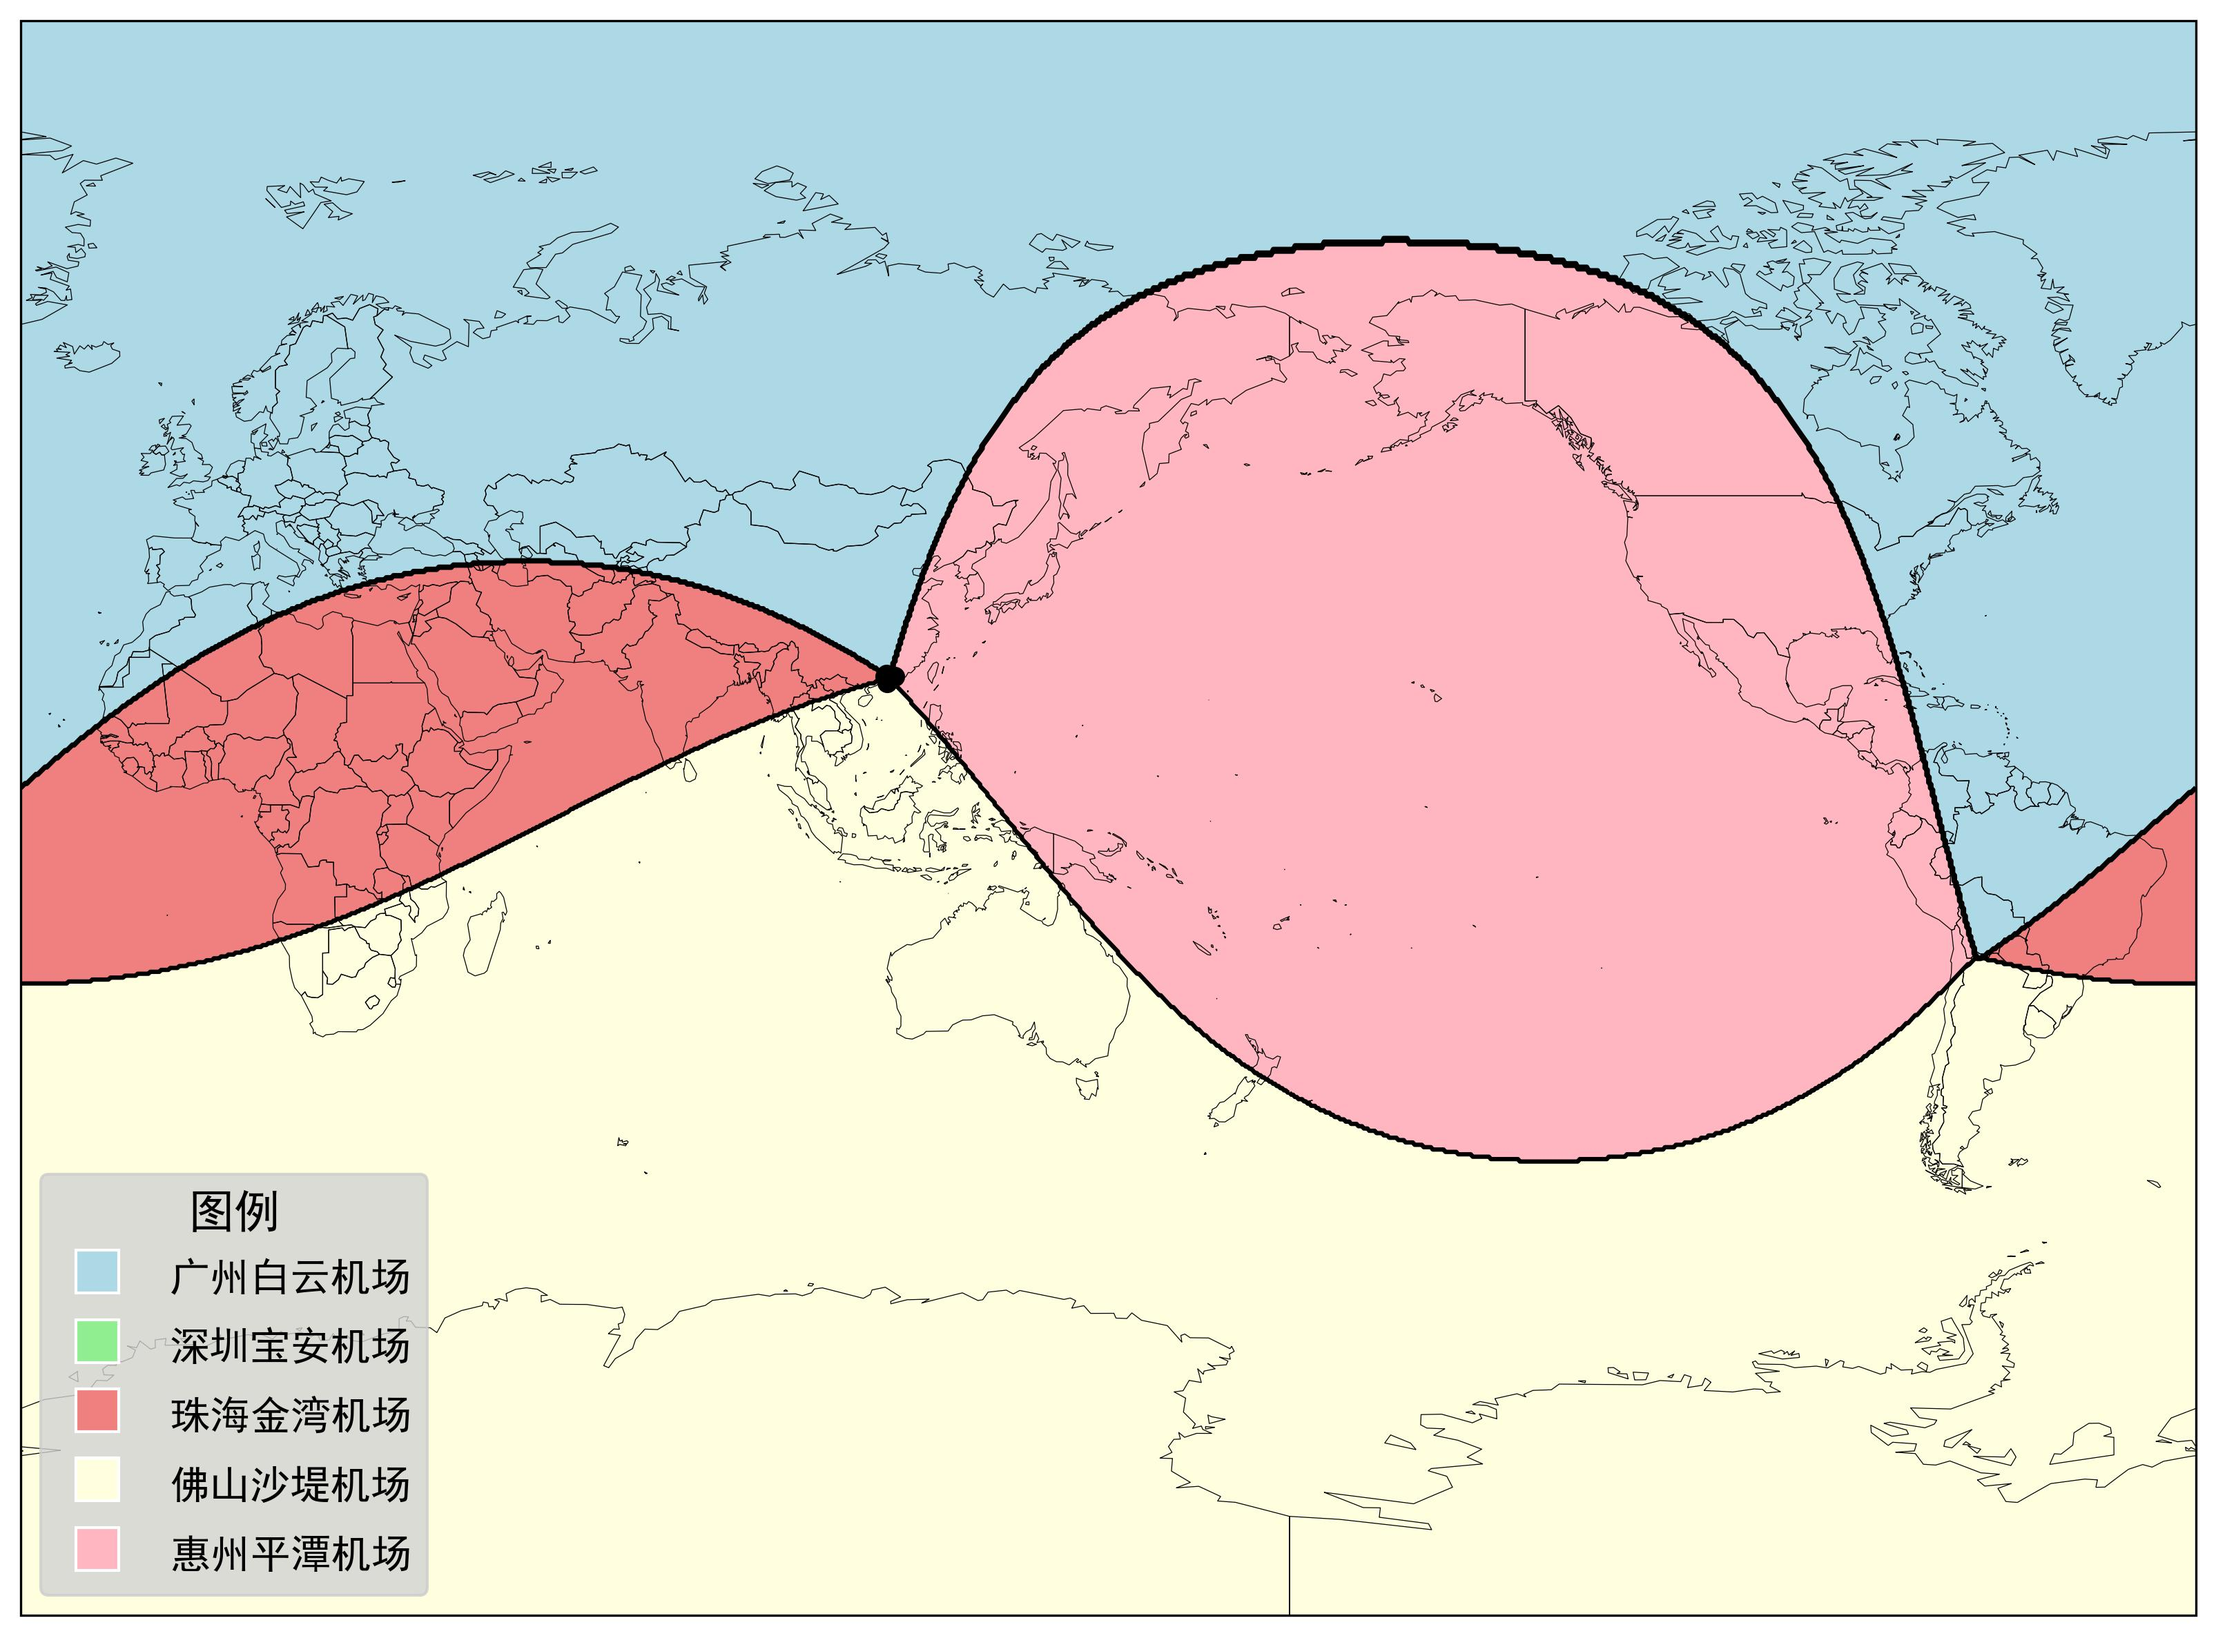
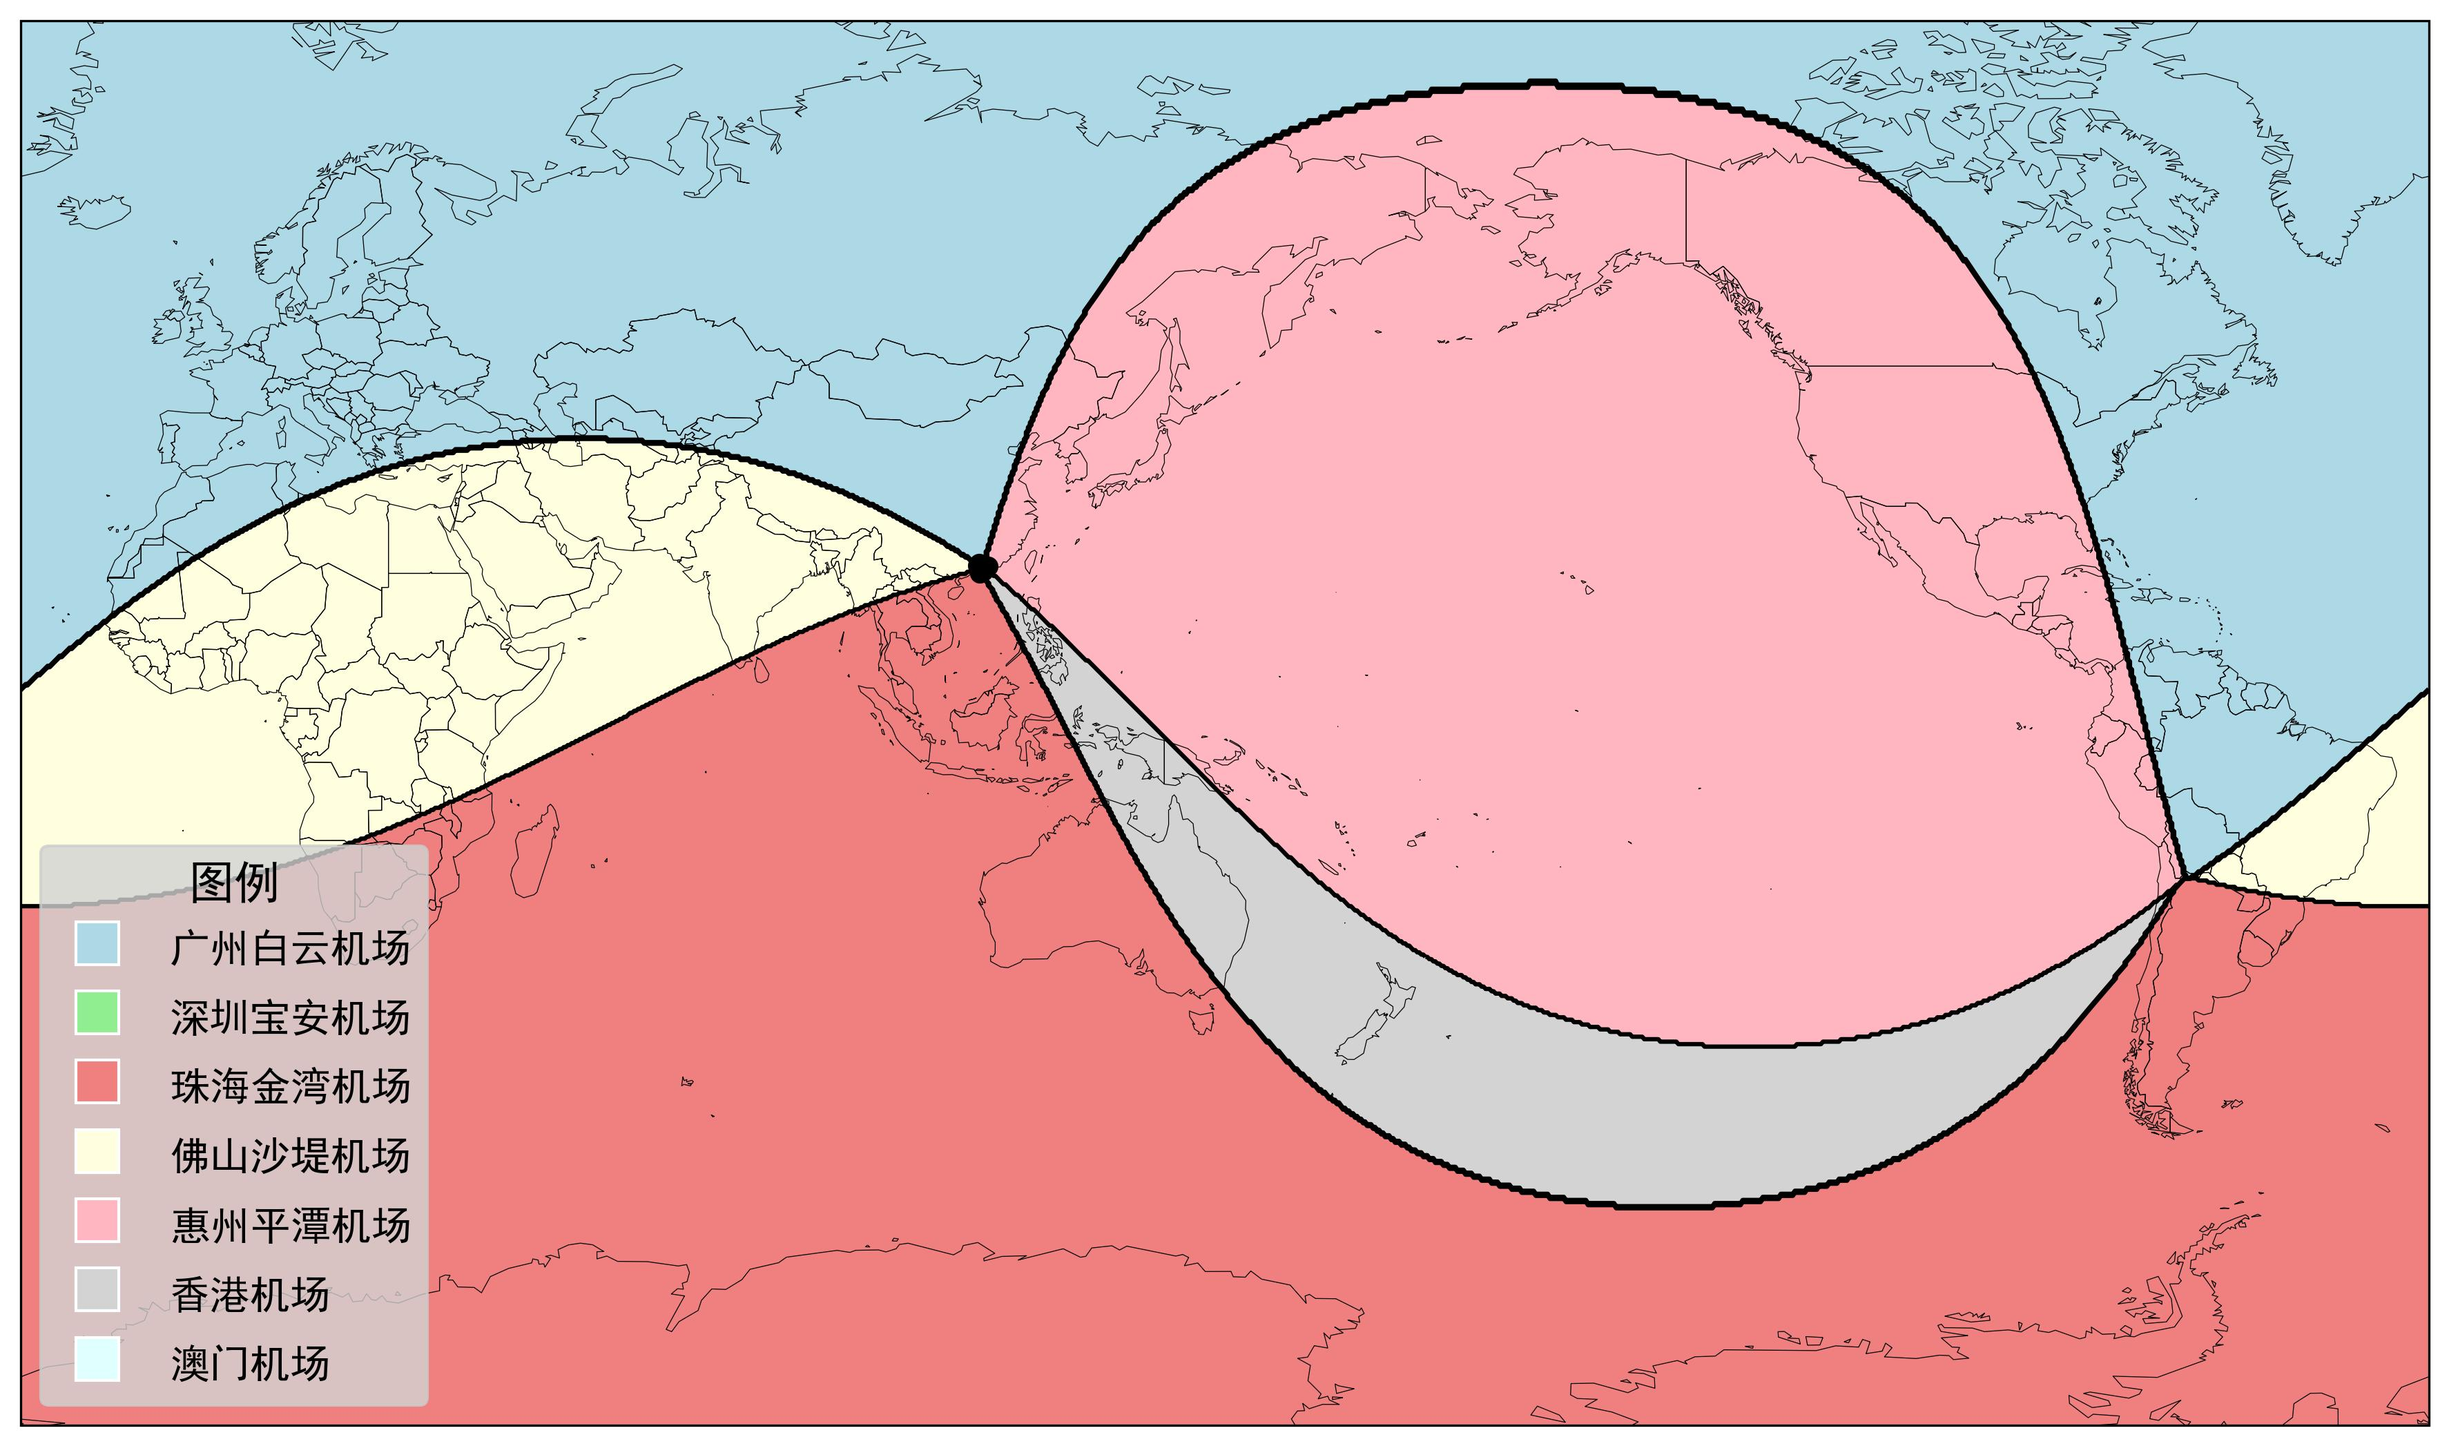
`

diff --git a/app/utils/map_utils.py b/app/utils/map_utils.py
@@ -23,6 +23,7 @@ from app.utils.tools import loopFillColor, lineMark, loopFillColor, drawIslandCo
 from sqlalchemy.ext.asyncio import AsyncSession
 from app.database.model import MapPoint, POI
 from sqlalchemy.future import select
+from sqlalchemy import case
 
 matplotlib.use('Agg')
 target_country_list = [
@@ -171,16 +172,19 @@ async def generate_separate_image(data: SeparateMap, db: AsyncSession):
     fig, ax = plt.subplots(1, 1, figsize=(15, 10), subplot_kw={'projection': ccrs.Miller(central_longitude=150)})
     world.plot(ax=ax, color='none', edgecolor='black', linewidth=0.3, transform=ccrs.PlateCarree())
 
+    order_condition = case({name: index for index, name in enumerate(data.name)}, value=POI.name,)
+
     latList = []
     lonList = []
     coorList = []
-    result = await db.execute(select(POI).where(POI.name.in_(data.name)))
+    result = await db.execute(select(POI).where(POI.name.in_(data.name)).order_by(order_condition))
     points = result.scalars().all()
     if len(points) > 0:
         for point in points:
             latList.append(point.latitude)
             lonList.append(point.longitude)
             coorList.append((point.latitude, point.longitude))
+            print([point.latitude, point.longitude])
     lats = np.linspace(-90, 90, 600)
     lons = np.linspace(-180, 180, 1200)
     lon_grid, lat_grid = np.meshgrid(lons, lats)
@@ -202,6 +206,7 @@ async def generate_separate_image(data: SeparateMap, db: AsyncSession):
         legend_elements.append(Line2D([0], [0], marker='s', color='w', markerfacecolor=colors[i], markersize=15, label=data.name[i], linestyle='None'))
     legend = ax.legend(handles=legend_elements, loc='lower left', title='图例', ncol=1, handleheight=1.5, title_fontsize=16, prop={'size': 14})
     legend.get_frame().set_facecolor('lightgray')
+    ax.set_extent([180, -180, -80, 80], crs=ccrs.PlateCarree())
     ax.tick_params(axis='both', which='both', length=0, labelsize=0)
 
     output_path = os.path.join('./result', 'separateMap.jpg').replace("\\", "/")
